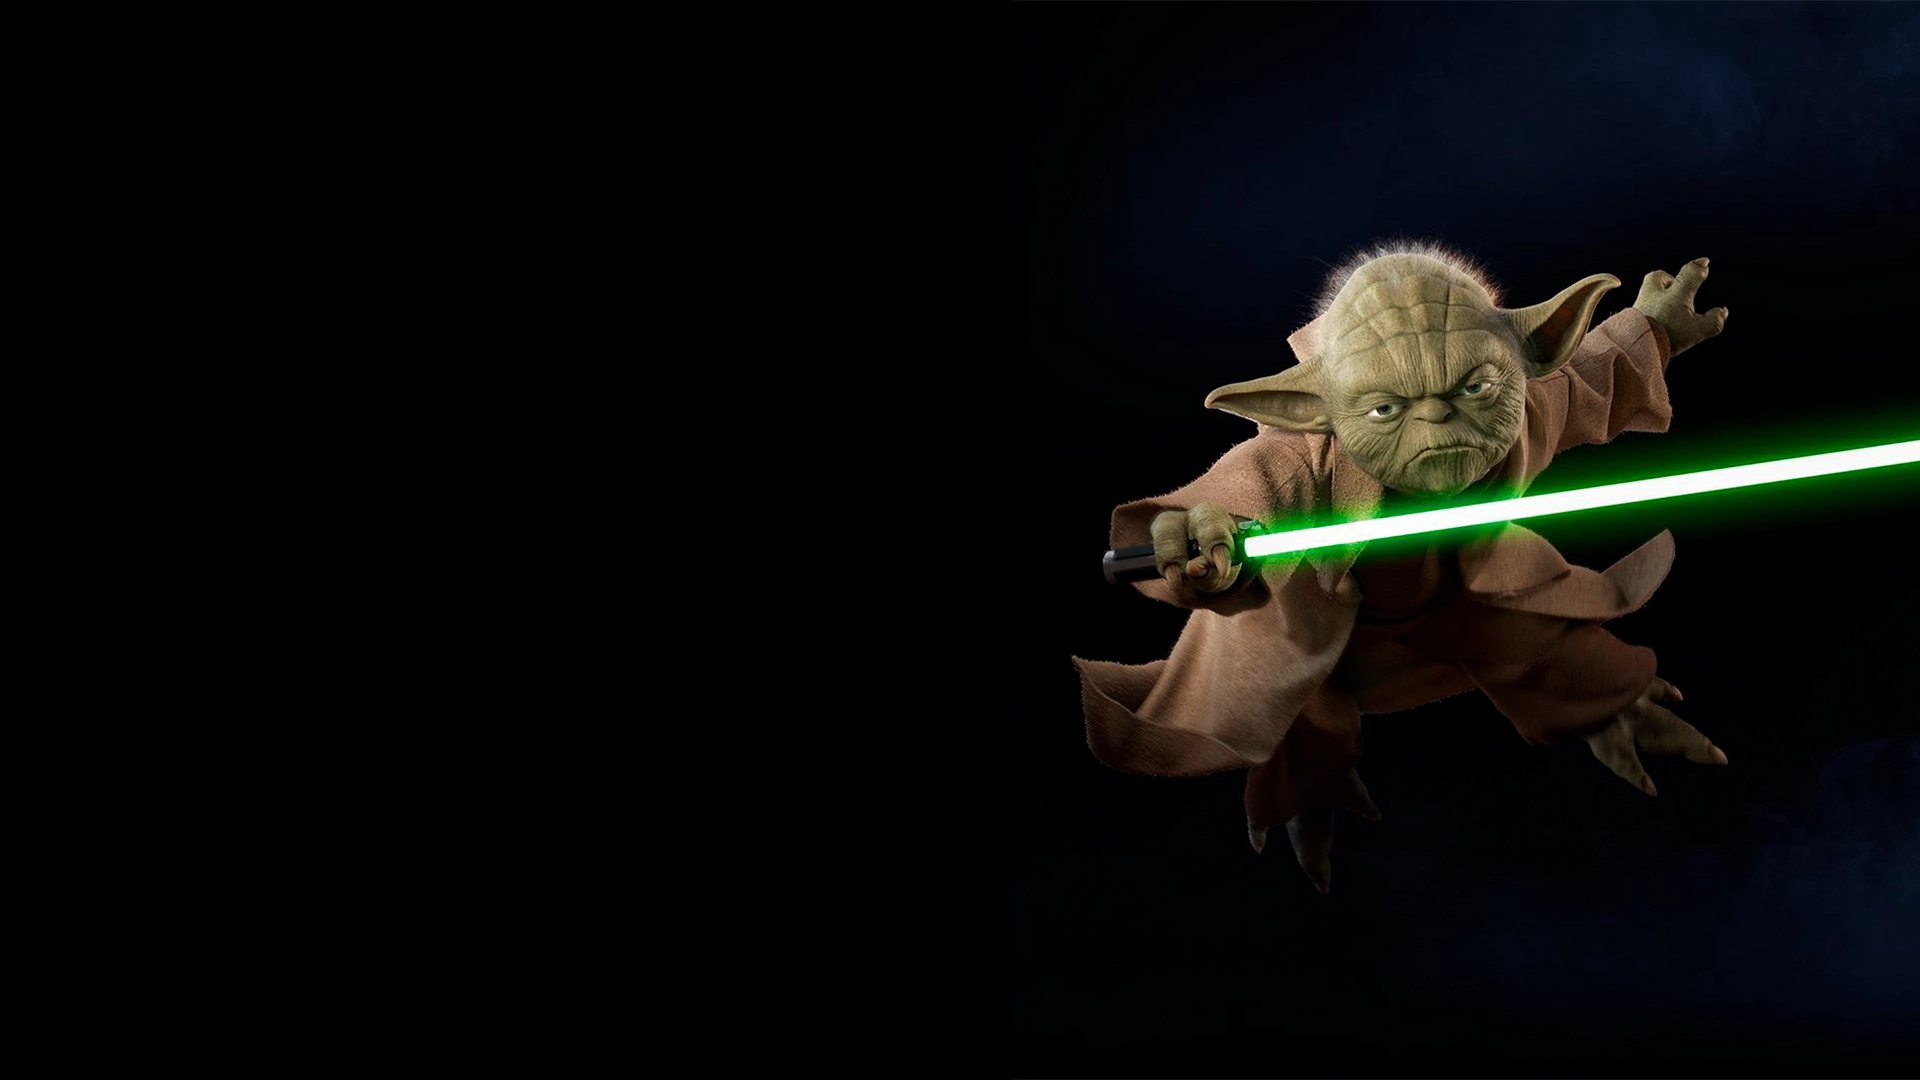
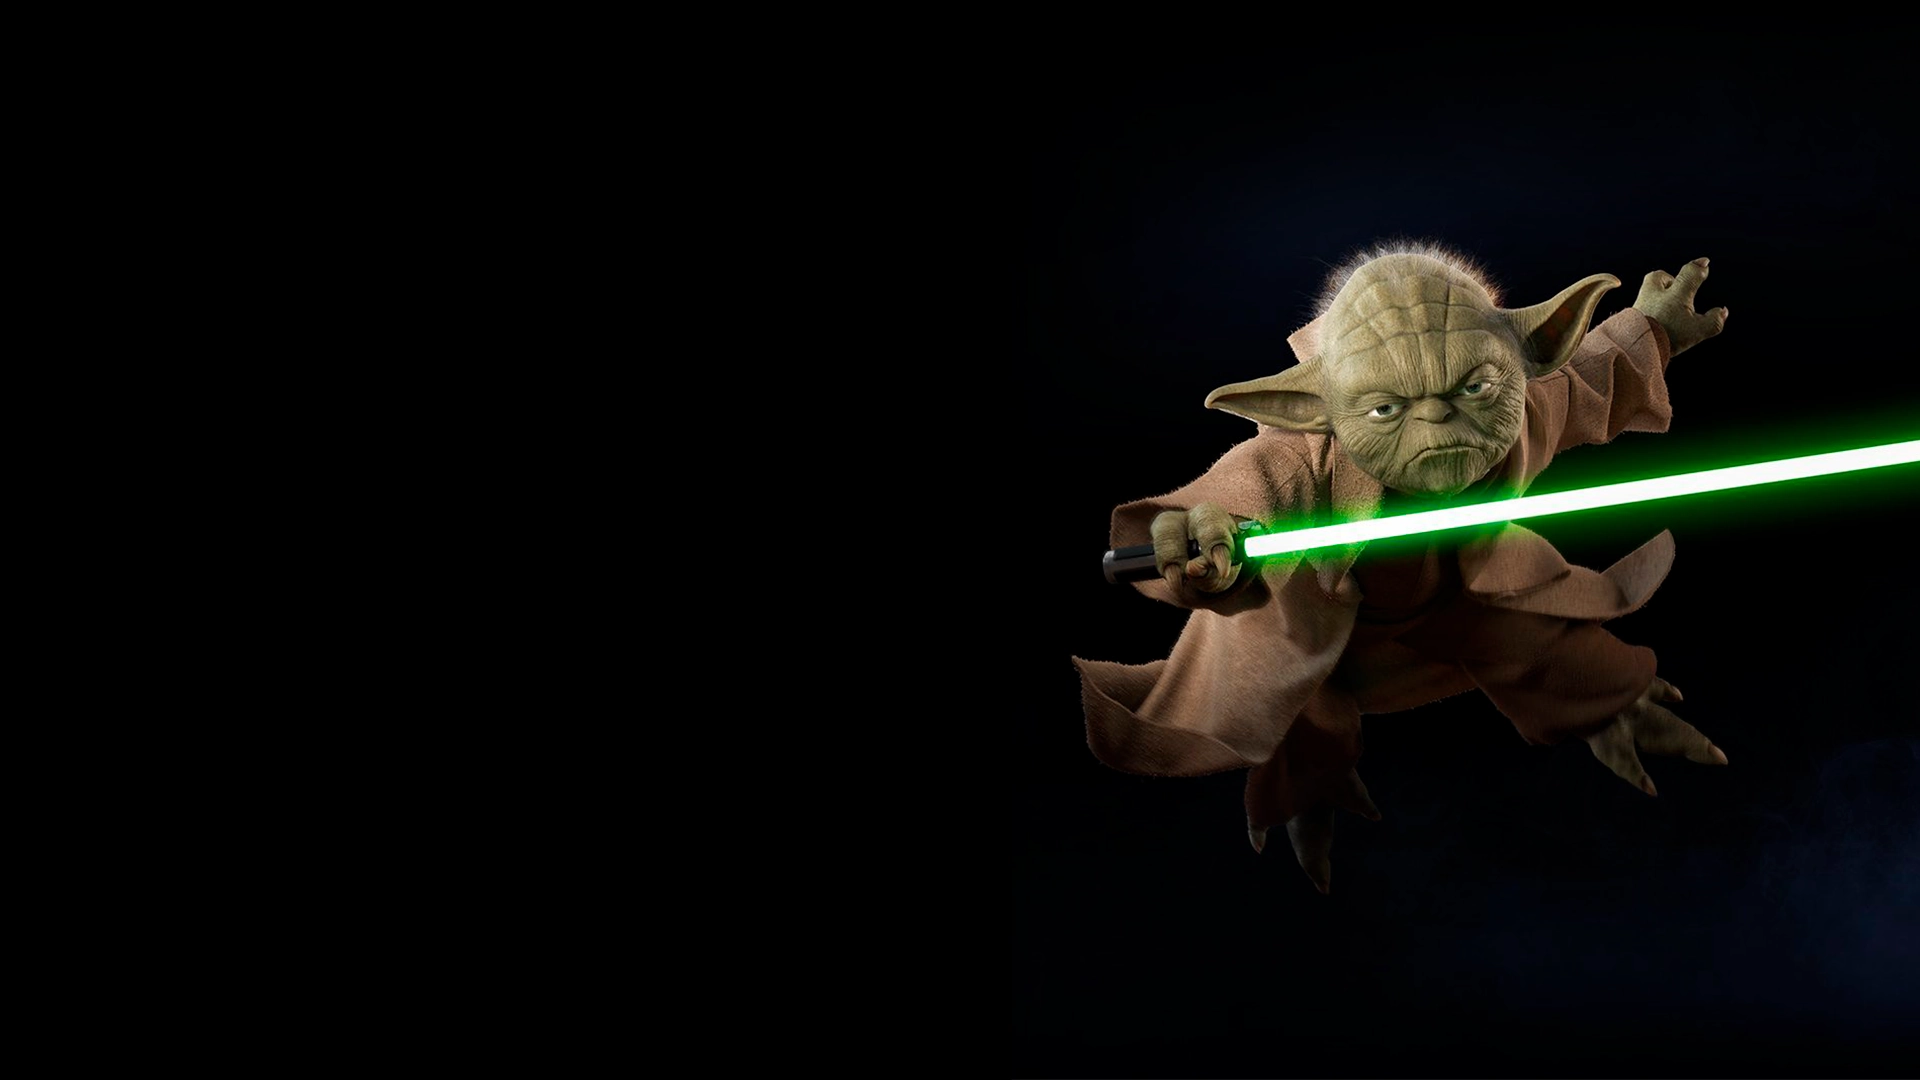
Character Selected

Changed region(s): [[0.75, 0.0, 1.0, 0.1528]]

diff --git a/src/components/ui/Lines.tsx b/src/components/ui/Lines.tsx
@@ -1,37 +1,7 @@
 export const Lines = () => {
   return (
-    <div className="animate-fade-right animate-duration-300 animate-delay-100 absolute top-2 -left-40 ml">
-      <svg
-        viewBox="0 0 238 40"
-        width="238px"
-        fill="var(--color-base)"
-        className="opacity-40"
-      >
-        <path d="M31.1,40h-1L0,0h1L31.1,40z"/>
-        <path d="M40.1,40h-1L9,0h1L40.1,40z"/>
-        <path d="M49.1,40h-1L18,0h1L49.1,40z"/>
-        <path d="M58.1,40h-1L27,0h1L58.1,40z"/>
-        <path d="M67.1,40h-1L36,0h1L67.1,40z"/>
-        <path d="M76.1,40h-1L45,0h1L76.1,40z"/>
-        <path d="M85.1,40h-1L54,0h1L85.1,40z"/>
-        <path d="M94.1,40h-1L63,0h1L94.1,40z"/>
-        <path d="M103.1,40h-1L72,0h1L103.1,40z"/>
-        <path d="M112.1,40h-1L81,0h1L112.1,40z"/>
-        <path d="M121.1,40h-1L90,0h1L121.1,40z"/>
-        <path d="M130.1,40h-1L99,0h1L130.1,40z"/>
-        <path d="M139.1,40h-1L108,0h1L139.1,40z"/>
-        <path d="M148.1,40h-1L117,0h1L148.1,40z"/>
-        <path d="M157.1,40h-1L126,0h1L157.1,40z"/>
-        <path d="M166.1,40h-1L135,0h1L166.1,40z"/>
-        <path d="M175.1,40h-1L144,0h1L175.1,40z"/>
-        <path d="M184.1,40h-1L153,0h1L184.1,40z"/>
-        <path d="M193.1,40h-1L162,0h1L193.1,40z"/>
-        <path d="M202.1,40h-1L171,0h1L202.1,40z"/>
-        <path d="M211.1,40h-1L180,0h1L211.1,40z"/>
-        <path d="M220.1,40h-1L189,0h1L220.1,40z"/>
-        <path d="M229.1,40h-1L198,0h1L229.1,40z"/>
-        <path d="M238.1,40h-1L207,0h1L238.1,40z"/>
-      </svg>
-    </div>
+    <svg viewBox="0 0 238 40" width="238px" fill="var(--color-base)" className="opacity-60">
+      <path d="M31.1,40h-1L0,0h1L31.1,40z M40.1,40h-1L9,0h1L40.1,40z M49.1,40h-1L18,0h1L49.1,40z M58.1,40h-1L27,0h1L58.1,40z M67.1,40h-1L36,0h1L67.1,40z M76.1,40h-1L45,0h1L76.1,40z M85.1,40h-1L54,0h1L85.1,40z M94.1,40h-1L63,0h1L94.1,40z M103.1,40h-1L72,0h1L103.1,40z M112.1,40h-1L81,0h1L112.1,40z M121.1,40h-1L90,0h1L121.1,40z M130.1,40h-1L99,0h1L130.1,40z M139.1,40h-1L108,0h1L139.1,40z M148.1,40h-1L117,0h1L148.1,40z M157.1,40h-1L126,0h1L157.1,40z M166.1,40h-1L135,0h1L166.1,40z M175.1,40h-1L144,0h1L175.1,40z M184.1,40h-1L153,0h1L184.1,40z M193.1,40h-1L162,0h1L193.1,40z M202.1,40h-1L171,0h1L202.1,40z M211.1,40h-1L180,0h1L211.1,40z M220.1,40h-1L189,0h1L220.1,40z M229.1,40h-1L198,0h1L229.1,40z M238.1,40h-1L207,0h1L238.1,40z"/>
+    </svg>
   )
 }

diff --git a/src/components/CharacterSelection.tsx b/src/components/CharacterSelection.tsx
@@ -1,0 +1,51 @@
+'use client'
+import Image from 'next/image'
+import { usePathname } from 'next/navigation'
+import { Theme, useThemeStore } from '@/store/theme-store'
+import mainCharacters from '@/data/main-characters.json'
+import Cookies from 'js-cookie'
+
+export const CharacterSelection = () => {
+
+  const pathname = usePathname()
+
+  const { theme, setTheme } = useThemeStore()
+  const characterSelected = mainCharacters.find( char => char.id === theme )
+  const filteredCharacters = mainCharacters.filter( char => char.id !== theme )
+
+  const handleSelect = ( id: string ) => {
+    Cookies.set('theme', id, { expires: 365 })
+    setTheme( id as Theme )
+  }
+
+  return (
+    <>
+    <ul className="fixed bottom-8 gap-4 flex flex-col right-8 z-50">
+      { filteredCharacters.map(( character ) => (
+        <li key={ character.id } onClick={ () => handleSelect( character.id ) } className="cursor-pointer">
+          <div className="character__thumbnail">
+            <Image
+              src={ character.thumbnail }
+              width={ 128 }
+              height={ 128 }
+              alt={ character?.name || 'Star Wars' }
+              className="h-24 w-24 object-cover transition-transform duration-300"
+            />
+          </div>
+        </li>
+      ))}
+    </ul>
+    <Image
+      src={ characterSelected?.mainImage! }
+      width={ 1920 }
+      height={ 1080 }
+      alt={ characterSelected?.name || 'Star Wars' }
+      className={ pathname === '/' ?
+        "absolute top-0 right-0 h-screen z-20 w-full object-cover mix-blend-lighten vt-image" :
+        "absolute bottom-0 -right-12 h-1/2 z-20 w-auto object-cover mix-blend-lighten vt-image"
+      }
+    />
+    </>
+  )
+
+}

diff --git a/src/components/Welcome.tsx b/src/components/Welcome.tsx
@@ -1,9 +1,8 @@
 'use client'
 
-import { Theme, useThemeStore } from '@/store/theme-store'
+import { useThemeStore } from '@/store/theme-store'
 import mainCharacters from '@/data/main-characters.json'
 import { Lines } from '@/components'
-import Image from 'next/image'
 
 export const Welcome = () => {
 
@@ -13,13 +12,12 @@ export const Welcome = () => {
   return (
     <>
     <div className="md:w-3/4 lg:w-1/2 relative z-20">
-      <h1 className="text-3xl md:text-4xl animate-fade-right animate-duration-300 mb-4 text-accent">{ character?.welcome }</h1>
+      <h1 className="text-3xl md:text-4xl mb-4 text-accent">{ character?.welcome }</h1>
       <div className="relative">
-        <Lines/>
-        <p className="animate-fade-right animate-duration-300 animate-delay-200 pl-24">{ character?.message }</p>
+        <div className="absolute top-2 -left-40 ml"><Lines/></div>
+        <p className="pl-24">{ character?.message }</p>
       </div>
     </div>
-    <Image src={ character?.mainImage! } width={ 1920 } height={ 1080 } alt={ character?.name || 'Star Wars' } className="absolute top-0 right-0 h-screen z-10 w-full object-cover mix-blend-lighten vt-image" />
     </>
   )
 }

diff --git a/src/app/(app)/layout.tsx b/src/app/(app)/layout.tsx
@@ -1,5 +1,5 @@
-import { CharacterSelection, Header } from "@/components";
-import { CharacterSelectionInside } from "@/components/CharacterSelectionInside";
+import { Header } from "@/components";
+import { CharacterSelection } from "@/components";
 
 export default function AppLayout({ children }: Readonly<{ children: React.ReactNode }>) {
   return (
@@ -8,7 +8,7 @@ export default function AppLayout({ children }: Readonly<{ children: React.React
       <div className="mx-auto max-w-screen-xl min-h-[calc(100vh-240px)] p-40 pb-20 box-content flex items-center justify-center">
         <div className="w-full">
           { children }
-          <CharacterSelectionInside/>
+          <CharacterSelection/>
         </div>
       </div>
     </>

diff --git a/src/app/(app)/starships/page.tsx b/src/app/(app)/starships/page.tsx
@@ -3,13 +3,13 @@ import mainCharacters from '@/data/main-characters.json'
 import { useThemeStore } from '@/store/theme-store'
 import Image from 'next/image'
 
-export default function CharactersPage() {
+export default function StarshipsPage() {
   const { theme } = useThemeStore()
   const character = mainCharacters.find( char => char.id === theme )
 
   return (
     <section className="">
-      <h1 className="relative z-50 mb-12 animate-fade-up animate-duration-300">Personajes</h1>
+      <h1 className="relative z-50 mb-12 animate-fade-up animate-duration-300">Naves</h1>
     </section>
   )
 }

diff --git a/src/components/Header.tsx b/src/components/Header.tsx
@@ -10,7 +10,7 @@ export const Header = () => {
       <nav className="flex-1 font-antonio font-light tracking-wide uppercase">
         <ul className="flex justify-center gap-12">
           <li><Link href="/characters">Personajes</Link></li>
-          <li><Link href="/starchips">Naves</Link></li>
+          <li><Link href="/starships">Naves</Link></li>
           <li><Link href="/planets">Planetas</Link></li>
           <li><Link href="/mini-histories">Mini Historias</Link></li>
         </ul>

diff --git a/src/app/layout.tsx b/src/app/layout.tsx
@@ -27,7 +27,7 @@ export const metadata: Metadata = {
 export default function RootLayout({ children }: Readonly<{ children: React.ReactNode }>) {
   return (
     <html lang="es">
-      <body className={`${ inter.className } ${ antonio.variable }`} suppressHydrationWarning={ true }>
+      <body className={`overflow-hidden ${ inter.className } ${ antonio.variable }`} suppressHydrationWarning={ true }>
         <Providers>
           { children }
         </Providers>

diff --git a/src/app/globals.css b/src/app/globals.css
@@ -50,6 +50,14 @@ body {
   position: relative;
 }
 
+.character__thumbnail{
+  clip-path: polygon(30% 0%, 100% 0, 100% 70%, 70% 100%, 0 100%, 0% 30%);
+}
+
+.character__thumbnail:hover img{
+  transform: scale(1.2);
+}
+
 .vt-image{
   view-transition-name: vt-image;
 }

diff --git a/src/app/start/page.tsx b/src/app/start/page.tsx
@@ -1,6 +1,6 @@
 import { cookies } from 'next/headers'
 import { redirect } from 'next/navigation'
-import { CharacterSelection } from "@/components"
+import { CharacterSelection } from "./CharacterSelection"
 
 export default function StartPage() {
 

diff --git a/src/interfaces/index.ts b/src/interfaces/index.ts
@@ -2,6 +2,8 @@ export interface MainCharacter {
   id: string
   name: string
   image: string
+  mainImage: string
+  thumbnail: string
   message: string
 }
 
